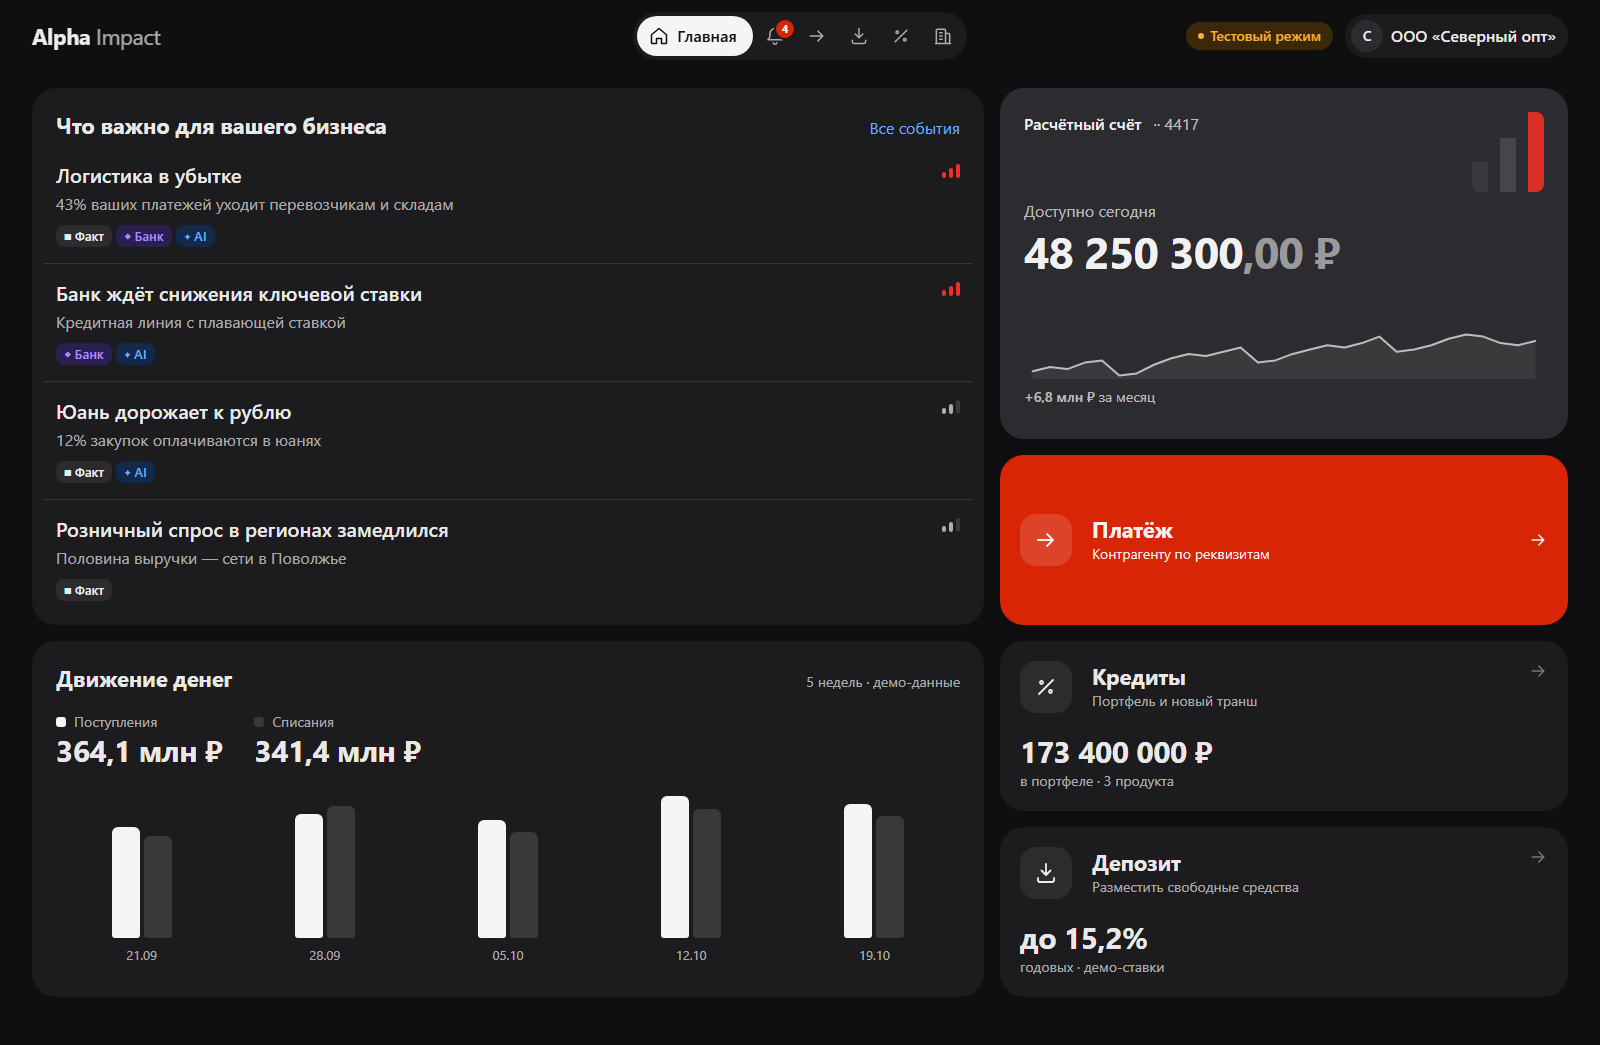
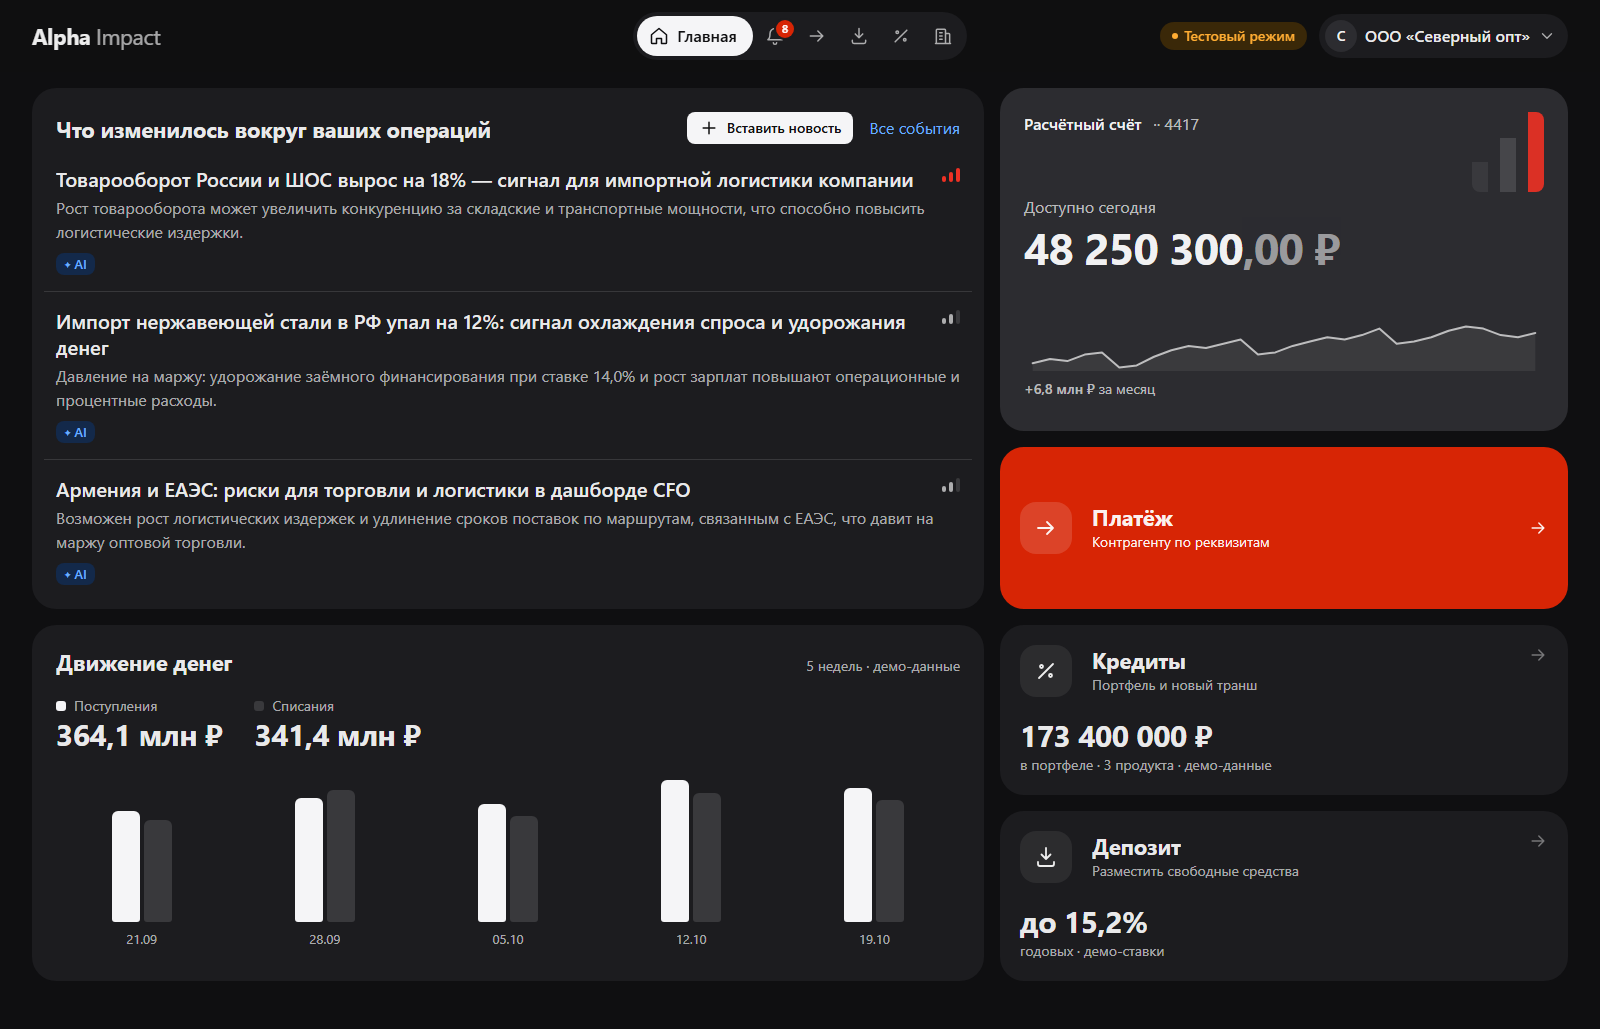
- AH-68: e2e на живой модели — все 7 зелёные (rates, trace, feed, demo, news, payment, smoke; KAN-70 пп. 13, 24, 33); скриншоты docs/design и GIF README пересняты с исправленными подписями источников (пп. 10, 24, 33) - AH-68 внесена в BACKLOG.md и очередь Участника 1 в TEAM.md - DEMO.md: повторный п

diff --git a/docs/decisions/mikhail.md b/docs/decisions/mikhail.md
@@ -66,3 +66,4 @@
 - 2026-10-24: e2e «платёж» (AH-65) на живой модели при таймаутах `.env.example` (8 с, план и черновик — интерактивные 12 с) проверяет карточку перевозчику с источниками, а явное молчание — на ленте компании без карточки (`user_cfo_nocard`), а не на платеже «Канцмиру», как было в «Готово, когда» AH-20: после AH-46 платёж любому получателю из списка даёт карточку и у оптовика, и у компании без карточки (проверено `POST /interpret` 24.10), а молчание в демо показывает шаг 4 — лента; продакшн-код в test-задаче не меняется, MC-05 переписана так же; молчание платежа — баг предфильтра (AH-15), записан в KAN-70
 - 2026-10-24: e2e сценария демо (AH-42, `frontend/tests/e2e/demo.spec.ts`) идёт по шагам `docs/DEMO.md` с теми же значениями, что `backend/data/seed/demo.yaml` (платёж 4 500 000 ₽, депозит 50 млн на 3 и 6 мес., текст шага 7), — на прогретом стенде ответы идут из кэша; молчание — лента компании без карточки (как AH-65), роль меняется адресом `/role` (кнопки в интерфейсе нет, KAN-70 п. 69) и возвращается к финдиректору до вставки новости; ответы платежа и депозита ждутся по своему запросу `/api/interpret` (тип действия, срок, роль в теле — запрос ленты главного экрана идёт тем же адресом) и по `aria-busy=false`, иначе старая карточка под полосой прогресса проходила бы проверку раньше времени; роль казначея проверяется по `role` в запросе, а не по атрибуту панели; правку профиля из шага 1 сценарий не делает: она меняет версию профиля в ключе кэша и выключает прогрев (KAN-70 п. 60). В CI сценарий не запускается: данных кейса в репозитории нет (`backend/data/raw` в `.gitignore`), ключа LLM в CI тоже — часть «Готово, когда» «и в CI» не выполнима без них
 - 2026-10-24: README (AH-44) — презентация проекта для жюри: анимация главного экрана, что умеет, схема, запуск только через Docker (`seed`, индекс новостей и прогрев — сервисом `seed` профиля compose, расширение — `docker compose cp` из образа `front`), тестовые аккаунты, сценарий проверки, переменные окружения, команда, регрессия; прежние разделы для разработчиков — без правок под свёрнутым «Для разработчиков», раздел «Регрессия» с таблицей остался на виду (его обновляет шаг проверки `docs/PIPELINE.md`); команды подготовки в `docs/DEMO.md` — тоже через Docker: с хоста на машине с локальным PostgreSQL на 5432 они уходят не в ту базу
+- 2026-10-24: AH-68 закрыта отбором — исправлено с тестами то, что видно на демо, влияет на персональные данные, безопасность ссылок и коды ответов, плюс мелкие безопасные правки (KAN-70 пп. 3, 4, 6, 7, 11–15, 24, 28, 29, 31, 33, 38, 41, 42, 44–46, 48, 50, 59–64, 66, 68, 69); остальное отклонено с причиной в комментарии KAN-70: правки контракта (пп. 21, 26, 27, 32), семантика ленты, бюджета и кэша бэкенда без владельцев (пп. 16–20, 22), промпты и защита от инъекций, требующие регрессии (пп. 5, 55–57 и формулировка доли в п. 68), предфильтр платежа (п. 67) — отдельной задачей владельцу; подписи источников исправлены на отображении, а не в бэкенде: подписи идут в промпт, и правка там сдвинула бы ответы модели без прогона регрессии

diff --git a/docs/BACKLOG.md b/docs/BACKLOG.md
@@ -1,6 +1,6 @@
 # BACKLOG — задачи AH-1…AH-73
 
-Единственный список задач: 5 эпиков и 63 задачи, номера AH-1…AH-73 (AH-17, AH-28, AH-72 и AH-73 не используются; AH-68 заведена в Jira, сюда ещё не внесена). Как выполнять задачу — `docs/PIPELINE.md`, кто и в каком порядке — `docs/TEAM.md`. Текст задачи и «Готово, когда» берутся отсюда; при расхождении с Jira прав этот файл.
+Единственный список задач: 5 эпиков и 64 задачи, номера AH-1…AH-73 (AH-17, AH-28, AH-72 и AH-73 не используются). Как выполнять задачу — `docs/PIPELINE.md`, кто и в каком порядке — `docs/TEAM.md`. Текст задачи и «Готово, когда» берутся отсюда; при расхождении с Jira прав этот файл.
 
 ## Формат задачи
 
@@ -377,6 +377,12 @@
 - Ответственный: Участник 1
 - Что сделать: свои контролы вместо нативных (`Select` по шаблону combobox из WAI-ARIA для компании, получателя и отрасли, поле суммы с ₽, карточки выбора роли); свои SVG-графики на токенах без библиотек (остаток за 30 дней, движение денег по неделям, доход депозита по сроку, структура кредитов, время шагов трассы); плотнее и аккуратнее главная, события, платёж, депозит, кредиты, профиль, трасса, вход и роль.
 - Готово, когда: нативных `select` в приложении нет, `Select` работает с клавиатуры и скринридером; на 1440, 1280, 1024, 768 и 390 px ничего не наезжает и нет горизонтального скролла страницы, светлая и тёмная тема без цветов вне токенов; vitest, oxlint и build зелёные, скриншоты в `docs/design` пересняты.
+
+### AH-68 · Мелкие правки и полный дебаг приложения
+- Эпик: AH-43 · День: 5 · Тип: fix · Зависит от: AH-41, AH-42, AH-44
+- Ответственный: Участник 1
+- Что сделать: собрать и закрыть мелкие замечания ревью, которые не блокировали мерж своих задач, и прогнать приложение целиком (все экраны, моменты, расширение, трасса) с исправлением найденного. Список — в Jira KAN-70 (описание и комментарии), каждая правка — с источником.
+- Готово, когда: каждый пункт списка исправлен (с регрессионным тестом) или явно отклонён с причиной; полный прогон демо по `docs/DEMO.md` без ошибок; проверка из `docs/PIPELINE.md` зелёная.
 
 ### AH-65 · e2e «платёж» зелёный на живой модели
 - Эпик: AH-34 · День: 5 · Тип: test · Зависит от: AH-20, AH-61, AH-66, AH-69, AH-70

diff --git a/docs/TEAM.md b/docs/TEAM.md
@@ -39,8 +39,9 @@
 | 4 | 19 | AH-61 Полировка клиентского кабинета | после AH-20: свои контролы и графики на всех экранах до демо |
 | 5 | 20 | AH-65 e2e «платёж» зелёный на живой модели | после AH-66, AH-69, AH-70: живая модель укладывается в таймаут |
 | 5 | 21 | AH-44 README и сценарий проверки | |
-| 5 | 22 | AH-45 Лицензии, lock-файлы, релиз | тег до дедлайна |
-| 5 | 23 | AH-47 Репетиция демо, резерв, презентация | три прогона, видео, слайды |
+| 5 | 22 | AH-68 Мелкие правки и полный дебаг приложения | перед релизом: список KAN-70 закрыт правкой или причиной |
+| 5 | 23 | AH-45 Лицензии, lock-файлы, релиз | тег до дедлайна |
+| 5 | 24 | AH-47 Репетиция демо, резерв, презентация | три прогона, видео, слайды |
 ## Участник 2 — Данные, знания и платформа бэкенда
 
 Отвечает за паспорт клиента, агрегаты графа, house view с версиями и индекс новостей — всё, что агент читает через инструменты, — и за то, что сервисы собираются без ручных реестров, проект разворачивается на сервере и не отдаёт чужих данных. OCR долгий — запустить фоном сразу после AH-48.

diff --git a/docs/DEMO.md b/docs/DEMO.md
@@ -18,7 +18,7 @@
 
 ## Что вводить на показе
 
-Прогрев `scripts.warm_demo` идёт по `backend/data/seed/demo.yaml` и попадает в кэш, только если на показе ввести ровно те же значения (ключ кэша `/interpret` — хэш контекста действия). Кэш `/interpret` живёт `CACHE_TTL_SECONDS` (1 ч): прогрев запускать не раньше чем за час до показа; повтор после — из кэша LLM (7 дней), быстро и за 0 ₽.
+Прогрев `scripts.warm_demo` идёт по `backend/data/seed/demo.yaml` и попадает в кэш, только если на показе ввести ровно те же значения (ключ кэша `/interpret` — хэш контекста действия). Кэш `/interpret` живёт `CACHE_TTL_SECONDS` (1 ч): прогрев запускать не раньше чем за час до показа; повтор после — из кэша LLM (7 дней), быстро и за 0 ₽. Повторный прогрев в течение часа срок не продлевает: запись уже есть и не переписывается, поэтому срок считается от первого прогрева. Прогрев и показ — в одни сутки по UTC (полночь UTC — 03:00 по Москве): даты в промптах берутся по UTC, и после полуночи кэш модели тоже промахнётся.
 
 | Шаг | Пользователь и компания | Что ввести |
 |---|---|---|
